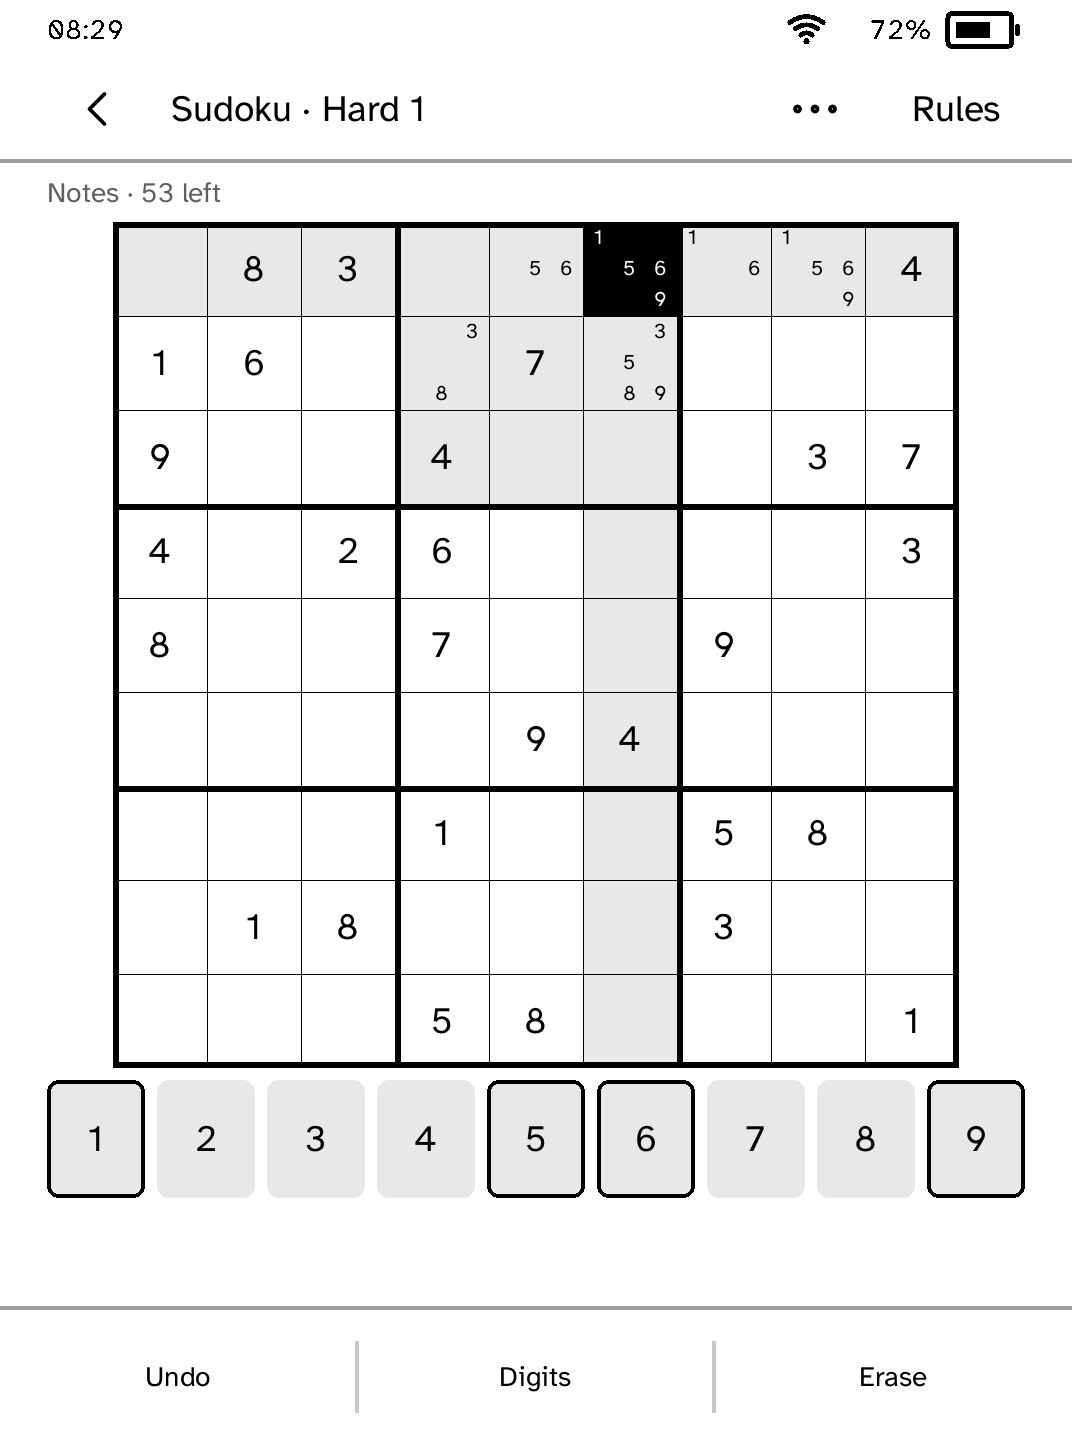
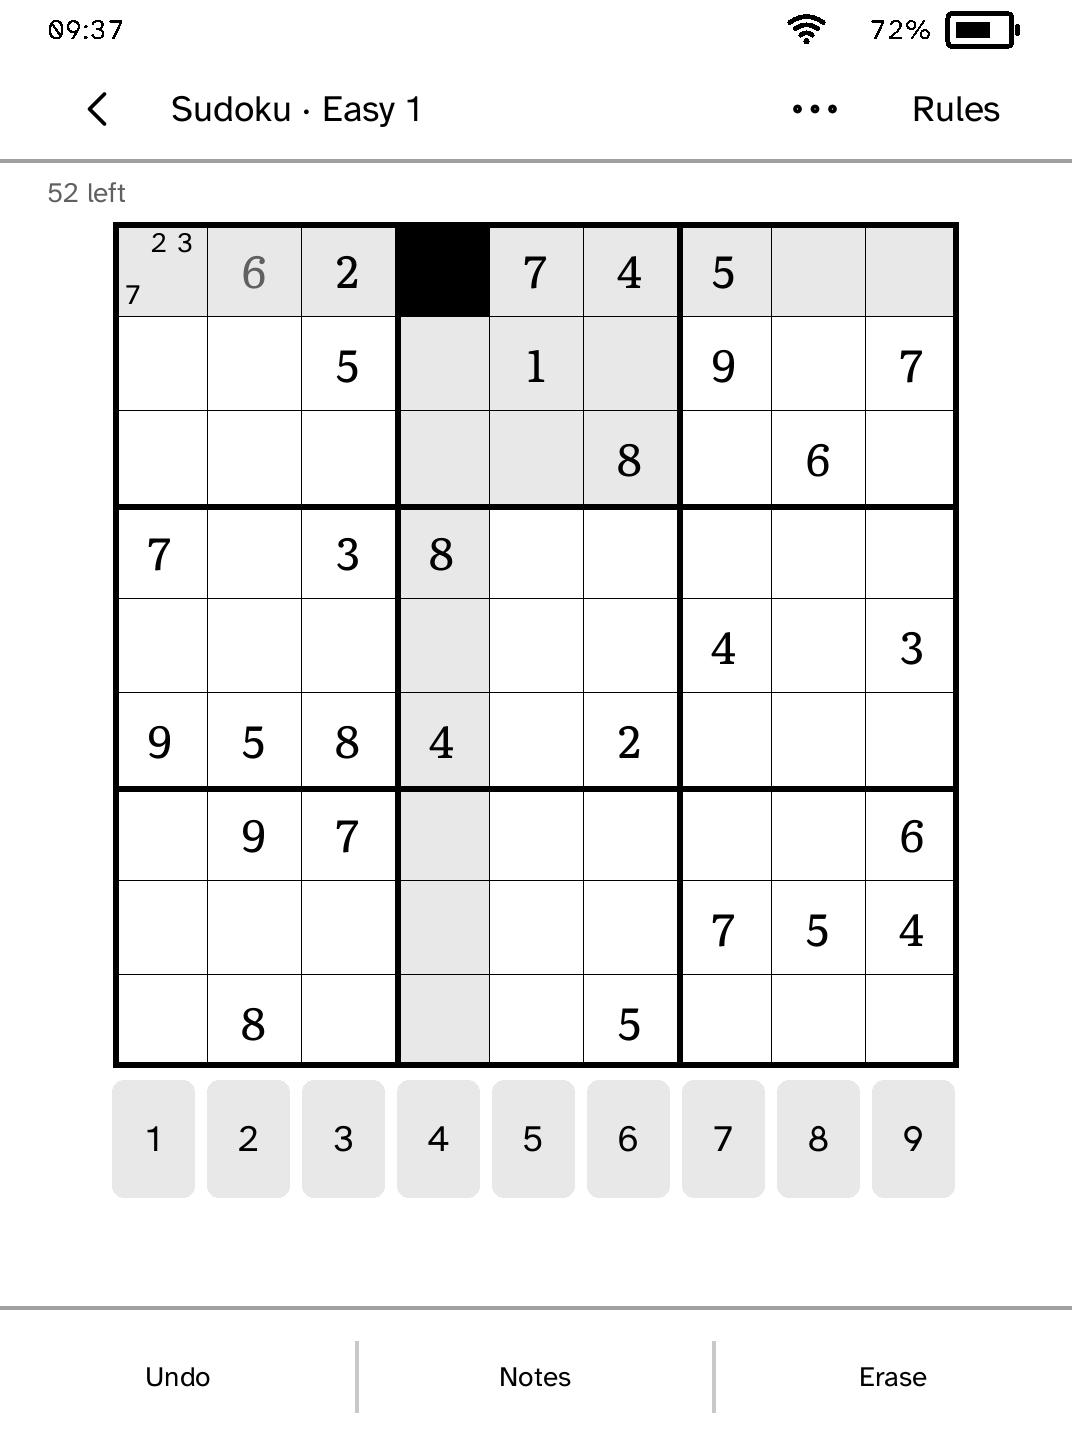
Line Sudoku's digit keys up under the board, and keep Notes' name
The nine digit keys sit under the board's nine columns, measured against the board on the panel in use, when the board is wide enough for nine keys a finger can hit; otherwise they keep the page's width. They used to run past both edges of the board.

Notes keeps its name in the bar and carries a tick while it is on. It used to change its word to Digits, so the bar named the mode the player was not in. The rules say so, and that entered answers are grey. The route enters notes and an answer for a new screenshot, and the published game screenshot and site pages are retaken.

diff --git a/docs/apps/sudoku/index.html b/docs/apps/sudoku/index.html
@@ -15,13 +15,13 @@
 <meta property="og:image" content="https://bandarlabs.github.io/Cobalt/media/site/apps/sudoku.png">
 <meta property="og:image:width" content="1072">
 <meta property="og:image:height" content="1448">
-<meta property="og:image:alt" content="An original Sudoku puzzle with pencil notes, selected keys and a highlighted row and column">
+<meta property="og:image:alt" content="An original Sudoku puzzle with pencil notes, an answer entered in grey and the selected square's row, column and box shaded">
 <meta name="twitter:card" content="summary">
 <meta name="twitter:title" content="Sudoku for Kobo e-readers | Cobalt">
 <meta name="twitter:description" content="Play 600 original Sudoku puzzles, 200 at each of three difficulties, each with exactly one solution. Pencil notes, undo, an optional mistakes check, and saved games survive reopening. Install it on a supported Kobo e-reader with Cobalt.">
 <meta name="twitter:image" content="https://bandarlabs.github.io/Cobalt/media/site/apps/sudoku.png">
-<meta name="twitter:image:alt" content="An original Sudoku puzzle with pencil notes, selected keys and a highlighted row and column">
-<meta http-equiv="Content-Security-Policy" content="default-src 'none'; script-src 'self' 'sha256-5+jF46sBbzhLdxjhMNPZ/gBgVBObhmEQs8zUEGTcKmI='; style-src 'self'; img-src 'self'; connect-src https://cobalt-install-relay.anandabhishek.workers.dev; base-uri 'none'; form-action 'self'">
+<meta name="twitter:image:alt" content="An original Sudoku puzzle with pencil notes, an answer entered in grey and the selected square's row, column and box shaded">
+<meta http-equiv="Content-Security-Policy" content="default-src 'none'; script-src 'self' 'sha256-JeSrjJZZ+ffk8bS7UZJoAbQdL0JIkXYjTE1m/DnWLSA='; style-src 'self'; img-src 'self'; connect-src https://cobalt-install-relay.anandabhishek.workers.dev; base-uri 'none'; form-action 'self'">
 <script type="application/ld+json">{
   "@context": "https://schema.org",
   "@graph": [
@@ -35,12 +35,12 @@
         "url": "https://bandarlabs.github.io/Cobalt/media/site/apps/sudoku.png",
         "width": 1072,
         "height": 1448,
-        "caption": "An original Sudoku puzzle with pencil notes, selected keys and a highlighted row and column"
+        "caption": "An original Sudoku puzzle with pencil notes, an answer entered in grey and the selected square's row, column and box shaded"
       },
       "applicationSuite": "Cobalt",
       "applicationCategory": "GameApplication",
       "operatingSystem": "Cobalt on supported Kobo e-readers",
-      "softwareVersion": "1.0.20",
+      "softwareVersion": "1.0.21",
       "isAccessibleForFree": true,
       "offers": {
         "@type": "Offer",
@@ -99,7 +99,7 @@
       <h1>Sudoku</h1>
       <p class="summary">Play 600 original Sudoku puzzles, 200 at each of three difficulties, each with exactly one solution. Pencil notes, undo, an optional mistakes check, and saved games survive reopening.</p>
       <dl class="facts">
-        <div><dt>Version</dt><dd>1.0.20</dd></div>
+        <div><dt>Version</dt><dd>1.0.21</dd></div>
         <div><dt>Permissions</dt><dd>No additional permissions</dd></div>
         <div><dt>Requires</dt><dd>Cobalt 0.3.32</dd></div>
       </dl>
@@ -107,7 +107,7 @@
       <p class="source"><a href="https://github.com/BandarLabs/Cobalt/tree/main/apps/sudoku">Source code on GitHub</a></p>
     </div>
     <figure class="app-shot">
-      <img src="../../media/site/apps/sudoku.png" width="1072" height="1448" alt="An original Sudoku puzzle with pencil notes, selected keys and a highlighted row and column">
+      <img src="../../media/site/apps/sudoku.png" width="1072" height="1448" alt="An original Sudoku puzzle with pencil notes, an answer entered in grey and the selected square's row, column and box shaded">
     </figure>
   </div>
   <section class="gallery" aria-label="Sudoku screenshots">
@@ -119,8 +119,8 @@
     </div>
   </section>
   <section class="whats-new">
-    <h2>New in 1.0.20</h2>
-    <p>Headings are a step smaller, small print such as hints and dates a step larger, and there is more room under the top bar.</p>
+    <h2>New in 1.0.21</h2>
+    <p>Printed numbers are set larger and your answers are grey beside them. Notes sit in their own place in the square, the digit keys line up under the board, and Notes keeps its name with a tick while on.</p>
   </section>
   <section class="panel get-cobalt" id="setup-panel">
     <div class="get-cobalt-copy">

diff --git a/docs/index.html b/docs/index.html
@@ -723,7 +723,7 @@ footer nav { display: flex; gap: 22px; flex-wrap: wrap; }
         <p>Browse Zotero collections, read metadata and indexed paper text, and keep papers available offline. Needs an account.</p>
       </div>
       <div class="app">
-        <a class="shot" href="apps/sudoku/"><picture><source type="image/webp" sizes="(max-width: 465px) calc(100vw - 36px), (max-width: 931px) 314px, 240px" srcset="media/site/app-thumbs/sudoku-480w-ec5d47d391fd.webp 480w, media/site/app-thumbs/sudoku-800w-ec5d47d391fd.webp 800w"><img src="media/site/apps/sudoku.png" width="1072" height="1448" loading="lazy" alt="An original Sudoku puzzle with pencil notes, selected keys and a highlighted row and column"></picture></a>
+        <a class="shot" href="apps/sudoku/"><picture><source type="image/webp" sizes="(max-width: 465px) calc(100vw - 36px), (max-width: 931px) 314px, 240px" srcset="media/site/app-thumbs/sudoku-480w-d9211ad895c1.webp 480w, media/site/app-thumbs/sudoku-800w-d9211ad895c1.webp 800w"><img src="media/site/apps/sudoku.png" width="1072" height="1448" loading="lazy" alt="An original Sudoku puzzle with pencil notes, an answer entered in grey and the selected square's row, column and box shaded"></picture></a>
         <h3><a href="apps/sudoku/">Sudoku</a></h3>
         <p>Play 600 original Sudoku puzzles with pencil notes, undo and saved games.</p>
       </div>

diff --git a/apps/sudoku/src/main.rs b/apps/sudoku/src/main.rs
@@ -13,6 +13,27 @@ use kobo_state::draft::{Draft, Status};
 use std::process::ExitCode;
 type BuildSlot<'a> = Box<dyn FnOnce(ScreenBuilder) -> ScreenBuilder + 'a>;
 
+/// Where to put the digit keys so they sit under the board's nine columns:
+/// how far in from the page's edge they start, and how wide they are, both in
+/// tenths of a millimetre. `None` when the board is too narrow for nine keys
+/// a finger can hit, and the keys keep the page's width.
+fn keypad_under_board(probe: &Screen, metrics: &kobo_sdk::DisplayMetrics) -> Option<(u16, u16)> {
+    let layout = probe.layout_with(metrics, &kobo_sdk::Chrome::measuring(true));
+    let left = layout.rect_of_action(action_id(&cell_name(0)))?.x;
+    let last = layout.rect_of_action(action_id(&cell_name(8)))?;
+    let right = last.x + last.width;
+    let page = layout.rect_of_action(action_id(&digit_name(1)))?.x;
+    let gap = metrics.space(kobo_sdk::Space::Small);
+    let tight = metrics.space(kobo_sdk::Space::Tight);
+    let width = right - left;
+    if width < metrics.touch_target_minimum() * 9 + tight * 8 || left - page < gap {
+        return None;
+    }
+    // Rounded down, so the keys never run a pixel past the board.
+    let tenths = |pixels: i32| u16::try_from(pixels * 254 / metrics.pixels_per_inch.max(1)).ok();
+    Some((tenths(left - page - gap)?, tenths(width)?))
+}
+
 #[derive(Clone, Copy, Debug, Default, PartialEq, Eq)]
 enum View {
     #[default]
@@ -240,11 +261,22 @@ impl Sudoku {
         // plain bar and Back returns to the board.
         let away = |title| ScreenBuilder::new("sudoku").top_bar(title).owns_back(true);
         match self.view {
-            View::Play => self.play_screen(ScreenBuilder::new("sudoku").game_top_bar(
-                self.title(),
-                self.menu,
-                self.more_items(),
-            )),
+            View::Play => {
+                let head = || {
+                    ScreenBuilder::new("sudoku").game_top_bar(
+                        self.title(),
+                        self.menu,
+                        self.more_items(),
+                    )
+                };
+                // The keys are laid out the board's width when it is wide
+                // enough for nine keys a finger can hit, which is measured
+                // against a screen whose keys run the page's width.
+                let metrics = context.metrics().oriented(self.orientation());
+                let probe = self.play_screen(head(), None);
+                let keypad = keypad_under_board(&probe, &metrics);
+                self.play_screen(head(), keypad)
+            }
             View::New => self.new_game_screen(context),
             View::Restart => away("Sudoku")
                 .confirmation(
@@ -331,7 +363,7 @@ impl Sudoku {
             stacked
         }
     }
-    fn play_screen(&self, builder: ScreenBuilder) -> Screen {
+    fn play_screen(&self, builder: ScreenBuilder, keypad: Option<(u16, u16)>) -> Screen {
         let builder = if self.game.landscape {
             // The status line and a keypad of three rows sit beside the
             // board, so the board keeps every line of height the foot bar
@@ -346,16 +378,34 @@ impl Sudoku {
             ];
             builder.band(BandAlign::Top, slots)
         } else {
-            self.digits(self.board(builder.secondary(self.status())), 9)
+            let builder = self.board(builder.secondary(self.status()));
+            match keypad {
+                // The keys are the board's width and under its columns, so
+                // the row of digits reads as part of the puzzle rather than
+                // a row of buttons running past both of its edges.
+                Some((indent, width)) => {
+                    let slots: [(SlotWidth, BuildSlot<'_>); 2] = [
+                        (SlotWidth::Fixed(indent), Box::new(|b| b)),
+                        (SlotWidth::Fixed(width), Box::new(|b| self.digits(b, 9))),
+                    ];
+                    builder.band(BandAlign::Top, slots)
+                }
+                None => self.digits(builder, 9),
+            }
         };
+        // Notes is a switch that keeps its name, with a tick over it while it
+        // is on. It used to change its word to Digits, so the bar named the
+        // mode the player was not in, and read as either an order or a state.
         builder
-            .game_actions(
-                true,
-                [
-                    ("pencil", if self.game.pencil { "Digits" } else { "Notes" }),
-                    ("erase", "Erase"),
-                ],
-            )
+            .action_bar_marked([
+                (chrome::UNDO, chrome::UNDO_LABEL, None),
+                (
+                    "pencil",
+                    "Notes",
+                    self.game.pencil.then_some(kobo_sdk::Glyph::Check),
+                ),
+                ("erase", "Erase", None),
+            ])
             .build()
     }
     /// Whether starting another puzzle would throw anything away.
@@ -389,7 +439,7 @@ impl Sudoku {
         let each = self.puzzles.len() / Level::ALL.len();
         context.paginate_oriented(&format!("Use 1–9 once in each row, column and 3×3 box. The shaded cross follows your selection; a bracketed number or small square marks your target. Given numbers cannot change.
 
-Tap Notes, then numbers to add or remove notes. A dot marks a square with notes; its selected numbers have outlined keys. Tap Digits to enter answers. Erase clears the selected square, so notes can go where an answer was.
+Tap Notes, then numbers to add or remove notes; a tick over Notes shows they are on. Each note sits in its own place in the square, and the selected square's notes have outlined keys. Tap Notes again to enter answers, which are grey beside the printed numbers. Erase clears the selected square, so notes can go where an answer was.
 
 Mistakes are hidden at first. Show mistakes in More marks a wrong answer in the selected square without removing it, and Hide mistakes turns that off again. Reveal square in More fills the selected square after asking, and counts as a hint.
 

diff --git a/apps/sudoku/src/tests.rs b/apps/sudoku/src/tests.rs
@@ -616,9 +616,31 @@ fn undo_comes_first_at_the_foot_and_says_so_when_there_is_nothing_to_undo() {
     tap(&mut r, chrome::UNDO);
     assert_eq!(r.app().game.position.board[c], 0);
 
+    // Notes keeps its name either way and carries a tick while it is on.
+    assert_eq!(foot.destinations[1].glyph, None);
     tap(&mut r, "pencil");
     let foot = shown(&r).nav_bar.unwrap();
-    assert_eq!(foot.destinations[1].label, "Digits");
+    assert_eq!(foot.destinations[1].label, "Notes");
+    assert_eq!(foot.destinations[1].glyph, Some(kobo_sdk::Glyph::Check));
+}
+
+#[test]
+fn the_digit_keys_sit_under_the_boards_nine_columns_when_the_board_is_wide_enough() {
+    let r = ready();
+    let metrics = kobo_ui::CLARA_BW_METRICS;
+    let layout = shown(&r).layout_with(&metrics, &kobo_sdk::Chrome::measuring(true));
+    let first = layout.rect_of_action(action_id(&cell_name(0))).unwrap();
+    let last = layout.rect_of_action(action_id(&cell_name(8))).unwrap();
+    let one = layout.rect_of_action(action_id("digit-1")).unwrap();
+    let nine = layout.rect_of_action(action_id("digit-9")).unwrap();
+    // Within a couple of pixels: the keys are placed in tenths of a
+    // millimetre and the board in whole squares.
+    assert!((one.x - first.x).abs() <= 3, "{one:?} against {first:?}");
+    assert!(
+        (nine.x + nine.width - (last.x + last.width)).abs() <= 6,
+        "{nine:?} against {last:?}"
+    );
+    assert!(one.width >= metrics.touch_target_minimum());
 }
 #[test]
 fn erase_and_reveal_say_why_when_they_have_nothing_to_do() {

diff --git a/README.md b/README.md
@@ -158,7 +158,7 @@ Screenshots are from a Kobo Clara BW or its simulator.
 </tr>
 <tr>
 <td width="33%" valign="top"><a href="apps/zotero-reader/README.md"><img width="230" src="docs/media/site/apps/zotero-reader.png" alt="The opening of Darwin's On the Origin of Species, read from a Zotero library's indexed text on a Kobo"></a><br><b><a href="apps/zotero-reader/README.md">Stacks</a></b><br>Browse Zotero collections, read metadata and indexed paper text, and keep papers available offline. Needs an account.</td>
-<td width="33%" valign="top"><a href="apps/sudoku/README.md"><img width="230" src="docs/media/site/apps/sudoku.png" alt="An original Sudoku puzzle with pencil notes, selected keys and a highlighted row and column"></a><br><b><a href="apps/sudoku/README.md">Sudoku</a></b><br>Play 600 original Sudoku puzzles with pencil notes, undo and saved games.</td>
+<td width="33%" valign="top"><a href="apps/sudoku/README.md"><img width="230" src="docs/media/site/apps/sudoku.png" alt="An original Sudoku puzzle with pencil notes, an answer entered in grey and the selected square's row, column and box shaded"></a><br><b><a href="apps/sudoku/README.md">Sudoku</a></b><br>Play 600 original Sudoku puzzles with pencil notes, undo and saved games.</td>
 <td width="33%" valign="top"><a href="apps/syncthing/README.md"><img width="230" src="docs/media/site/apps/syncthing.png" alt="Sync folders: notes for Vault, photos for Frame and books come from the computer, and out goes back to it."></a><br><b><a href="apps/syncthing/README.md">Sync</a></b><br>Sync folders between your computer and your Kobo with Syncthing. Needs your computer.</td>
 </tr>
 <tr>
